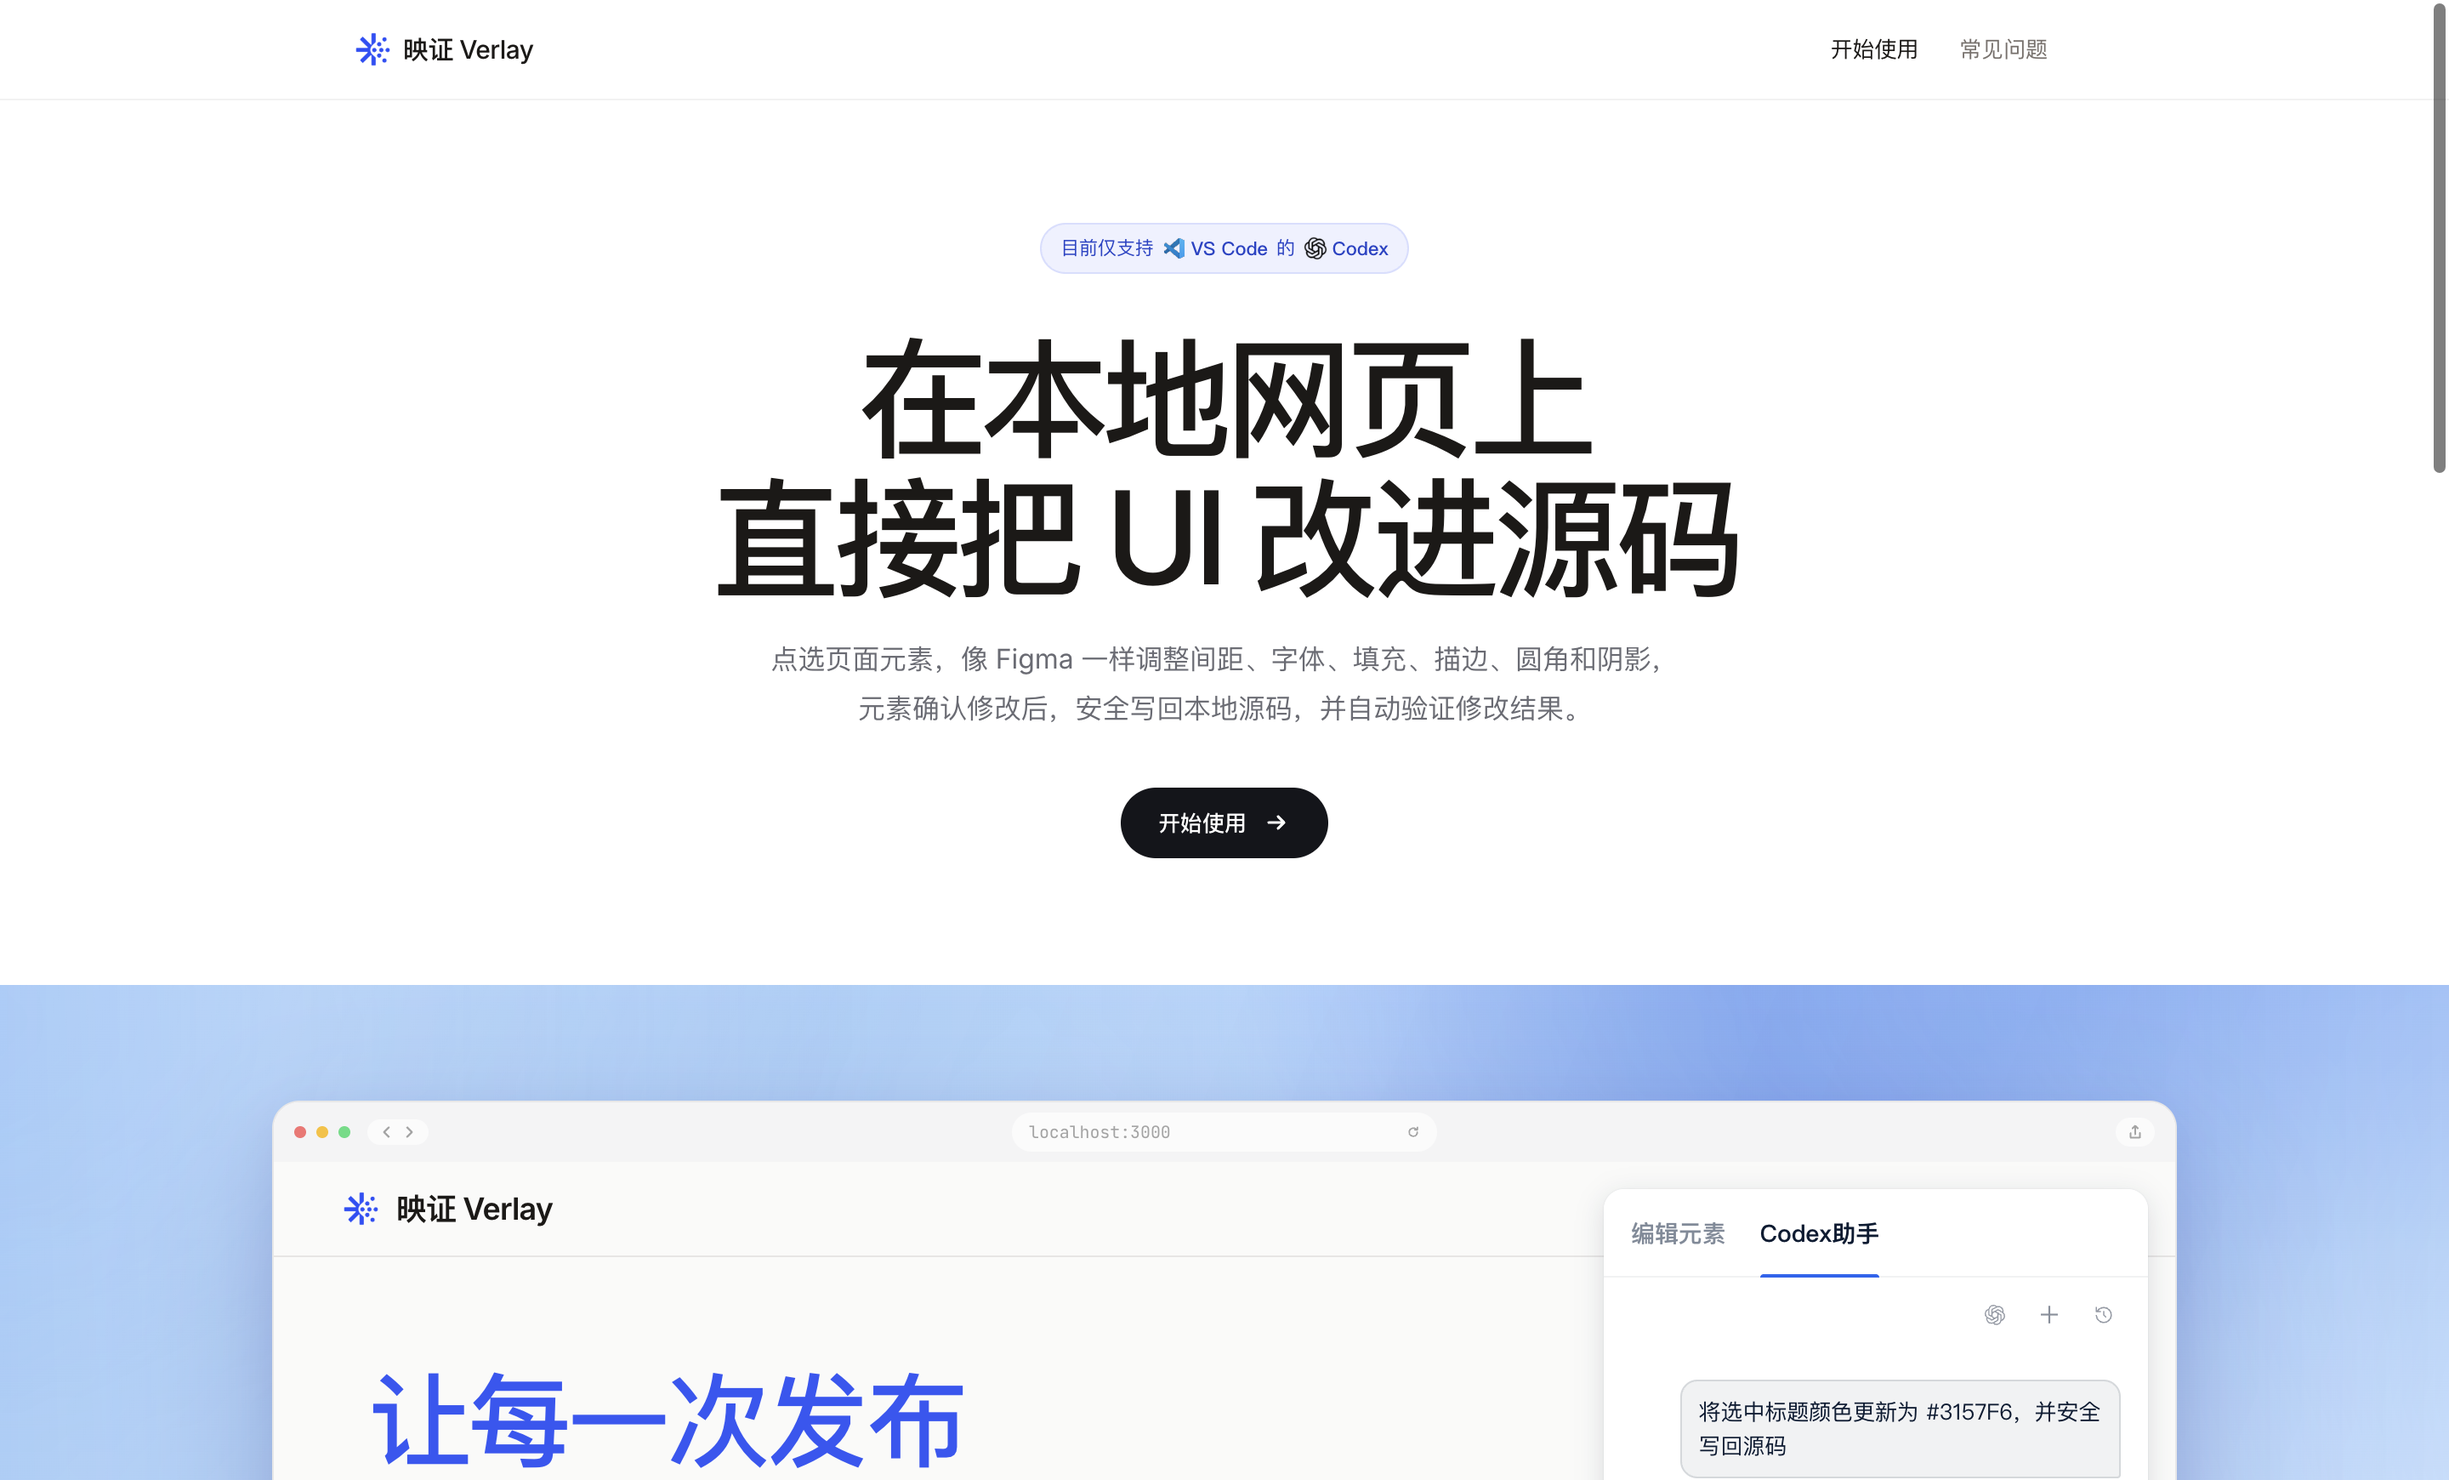
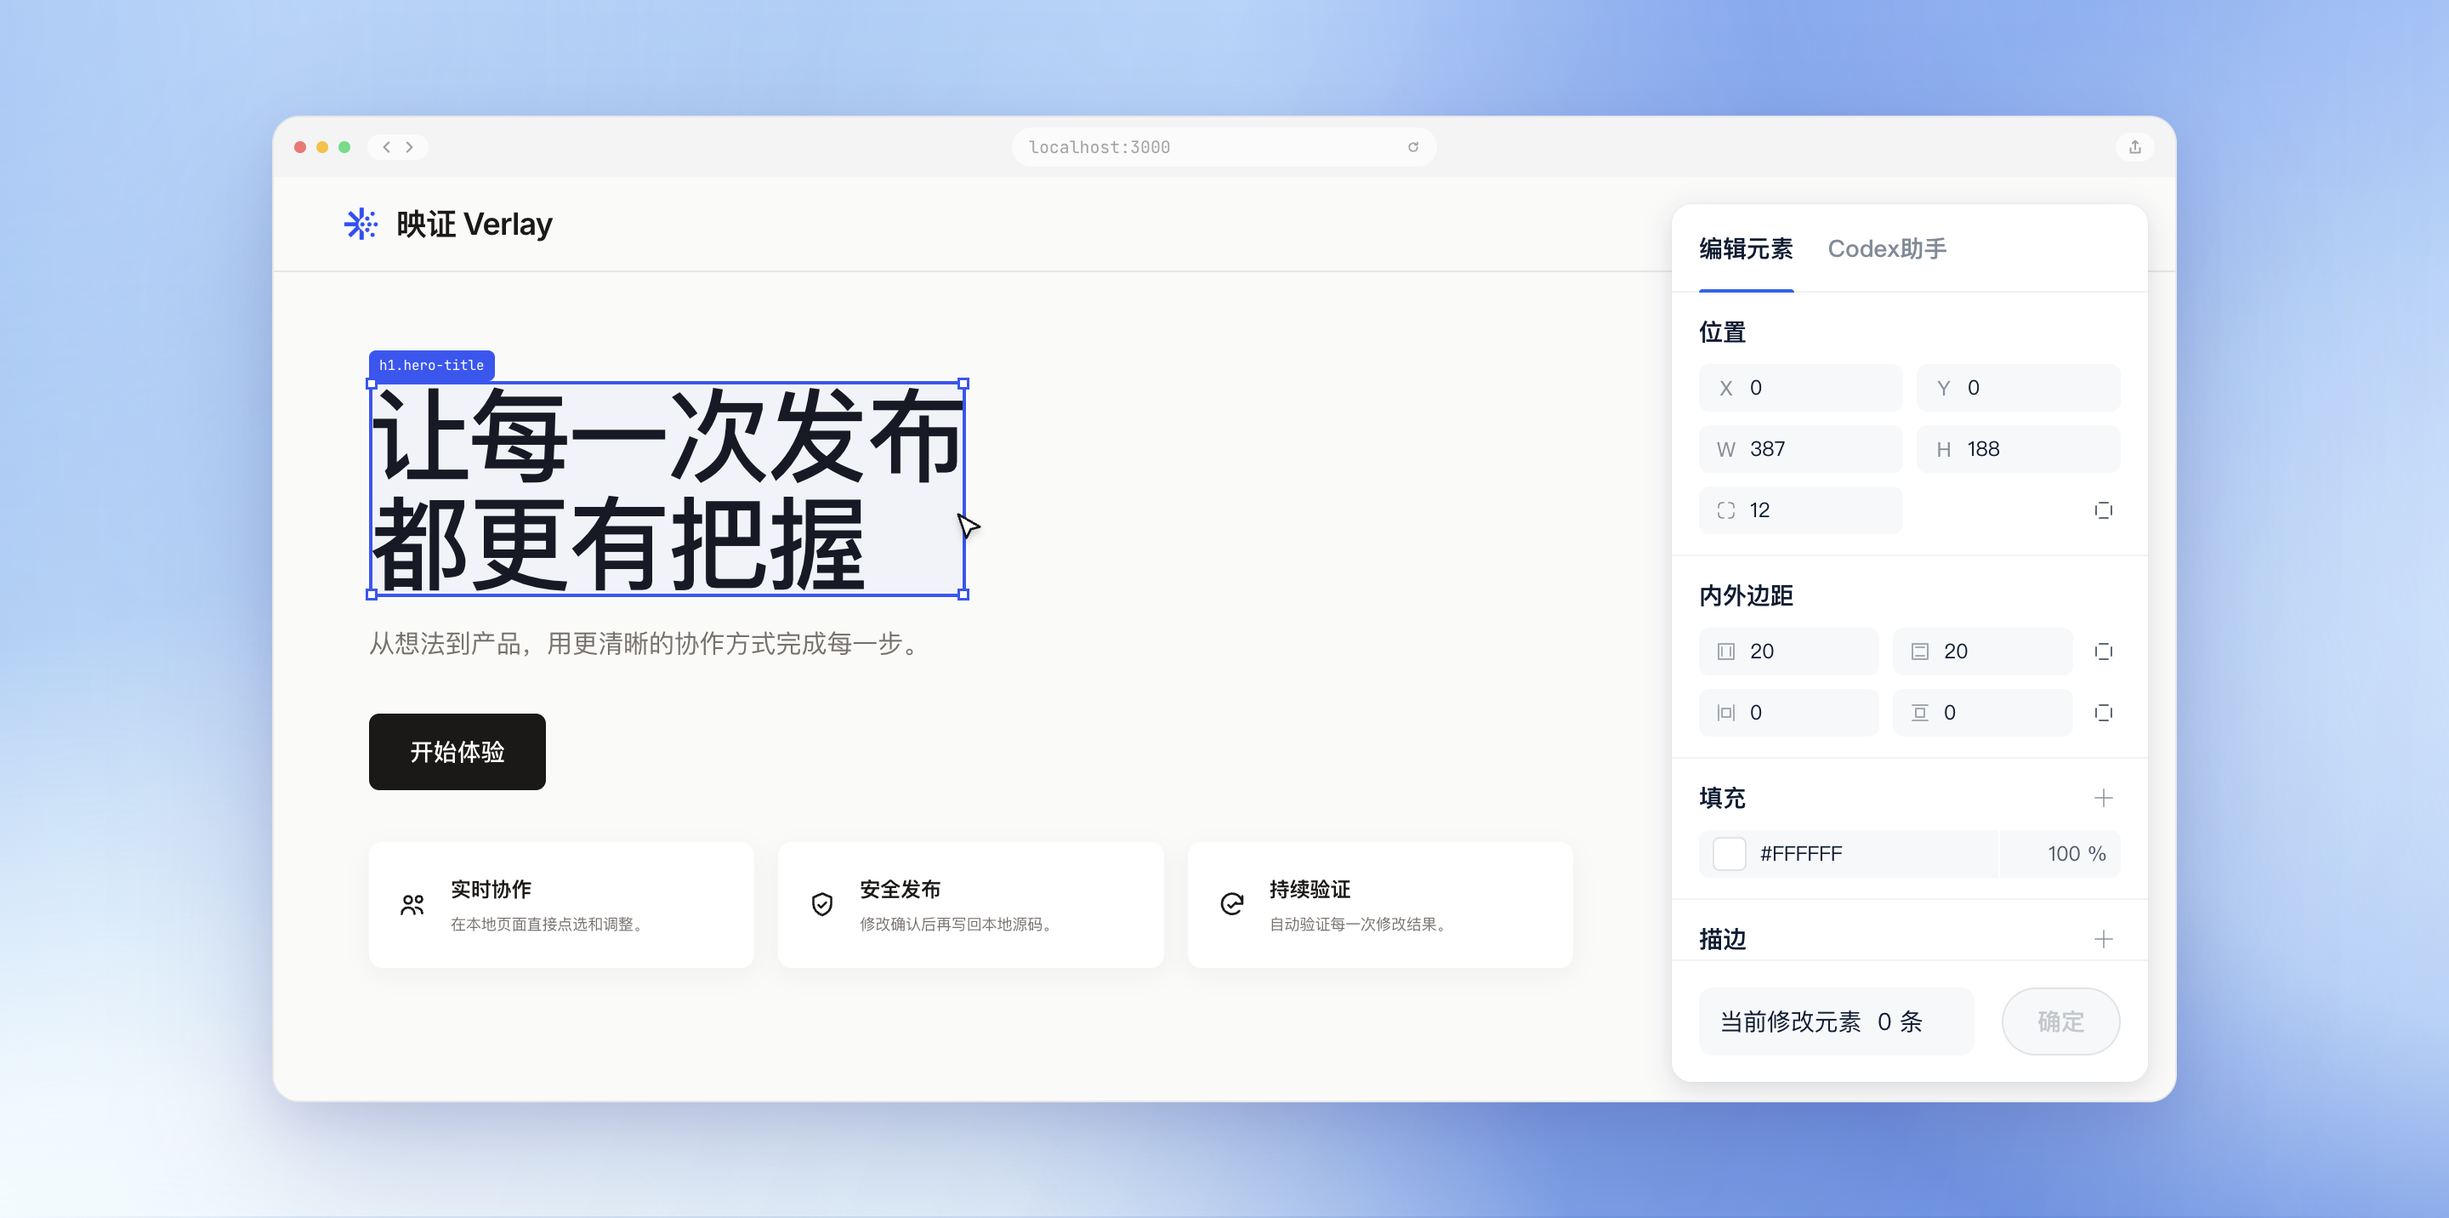
docs: expand overview and refresh full preview

diff --git a/README.md b/README.md
@@ -1,6 +1,8 @@
 # 映证 Verlay
 
-在本地网页上直接点选和调整 UI，由 VS Code 中的 Codex 安全写回源码，并自动验证修改结果。
+映证 Verlay 是一套面向本地前端项目的可视化 UI 编辑工作流。你可以直接在正在运行的网页上选中元素，像使用设计工具一样调整间距、字体、填充、描边、圆角和阴影；确认修改后，VS Code 中的 Codex 会把结构化变更安全写回真实源码，并自动检查构建状态与页面结果。
+
+整个过程基于本地开发环境运行，不需要迁移项目，也不需要维护一份脱离源码的在线副本。从页面点选、修改预览到代码写回和结果验证，都在同一条工作流中完成。
 
 [产品介绍页](https://daaaayuuuu.github.io/verlay/) · [下载安装包](https://github.com/daaaayuuuu/verlay/releases/latest)
 
